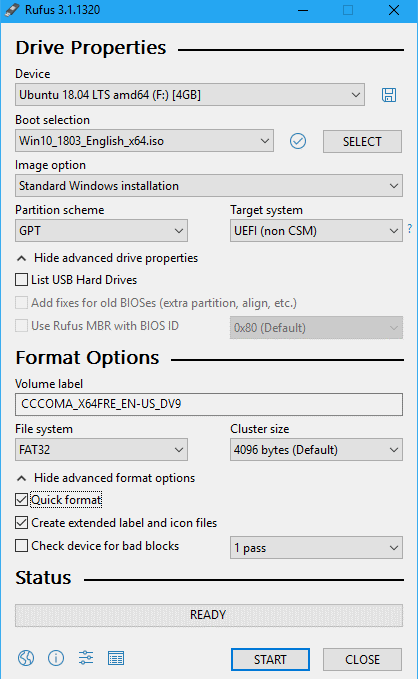
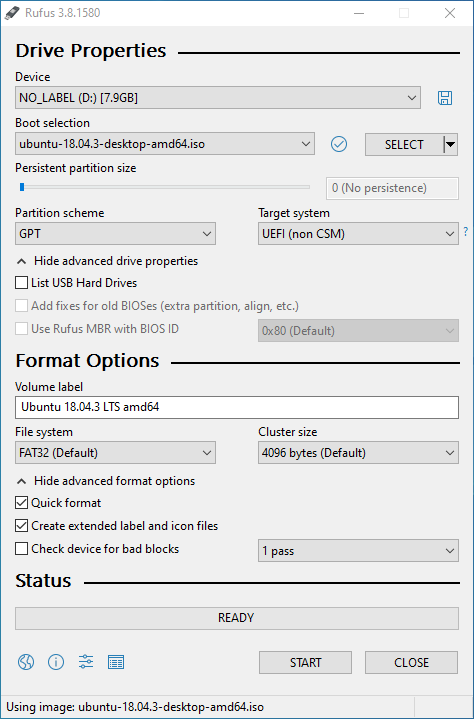
Further corrections for how to install ubuntu on external usb

Changed region(s): [[0.0, 0.0, 1.0, 1.0], [0.622, 0.1856, 0.9641, 0.2784], [0.8397, 0.1237, 0.9641, 0.1546]]

diff --git a/Install_portable_ubuntu_on_usb_drive/Install_portable_ubuntu_on_usb_drive_PL.md b/Install_portable_ubuntu_on_usb_drive/Install_portable_ubuntu_on_usb_drive_PL.md
@@ -15,15 +15,13 @@ author: Piotrek <pvanselow.2000@gmail.com>
 
 ## Wstęp
 
-W tym tutorialu poruszę kwestję instalacji Ubuntu (i pokrewnych dystrybucji Linuxa) na pamięci USB. Będzie to instalacja:
+W tym tutorialu poruszę kwestię instalacji Ubuntu (i pokrewnych dystrybucji Linuxa) w wersji UEFI, na pamięci USB z tablicą partycji GPT.
 
-* Ubuntu 18.04.3 LTS
-* W wersji UEFI
-* Na dysku z tablicą partycji GPT
+Ja użyję __Ubuntu 18.04.3 LTS__
 
 ## Co jest potrzebne
 
-* Dysk USB / pendrive: 8 GB, najlepiej USB3.1 Gen1 lub wyższe
+* Dysk USB / pendrive: min. 8 GB, najlepiej USB3.1 Gen1 lub wyższe
 * Pendrive: min. 4 GB, który posłuży nam jako dysk instalacyjny
 * Komputer obsługujący UEFI
 
@@ -42,9 +40,9 @@ W tym tutorialu poruszę kwestję instalacji Ubuntu (i pokrewnych dystrybucji Li
 
 ![Rufus_screenshot](IMG/01_RUFUS-Windows-10-Settings.png)
 
-* Teraz kliknij __START__ i w oknie dialogowym zezwól na pobranie dodatkowych plików.
+* Następnie kliknij __START__ i w oknie dialogowym zezwól na pobranie dodatkowych plików.
 
-## 2. Przygotowanie dysku USB do instalacji Linuxa
+## 2. Przygotowanie dysku USB na którym zainstalujemy Linuxa
 
 ### Uruchom ponownie komputer, wejdź w boot menagera i kliknij (UEFI):nazwa_dysku
 
@@ -55,7 +53,7 @@ W tym tutorialu poruszę kwestję instalacji Ubuntu (i pokrewnych dystrybucji Li
 
 ### Formatowanie i usuwanie partycji z dysk USB
 
-* Aby to zrobić musimy uruchomić program __GParted__. Można to zrobić z terminala albo graficznie.
+* Aby to zrobić musimy uruchomić program __GParted__. Można to zrobić z terminala jak i graficznie.
   * Otwórz terminal: <kbd>Ctrl</kbd> + <kbd>Alt</kbd> + <kbd>T</kbd>  
   * I w terminalu wpisz:  
 
@@ -63,8 +61,7 @@ W tym tutorialu poruszę kwestję instalacji Ubuntu (i pokrewnych dystrybucji Li
     sudo gparted
     ```
 
-* W programie __GParted__ znajdź dysk USB  __/dev/sdX__  przeznaczony do instalacji linuksa.  
-* Od teraz będę go nazywać __/dev/sdX__
+* W programie __GParted__ znajdź swój dysk USB przeznaczony do instalacji linuksa. (Na potrzeby tego tutorialu oznaczmy go jako __/dev/sdX__)
 * Sformatuj wszystkie partycje (może pojawić się potrzeba odmontowania ich):
   * dla zamontowanych partycji dysku: *PPM > Unmount*
   * dla wszystkich partycji dysku: *PPM > Format to > cleared*
@@ -105,7 +102,7 @@ Y
 ubiquity -b
 ```
 
-Zaznacz interesujące Cię opcje instalacji dodatkowego software'u. Kiedy instalator poprosi Cię o wybranie rodzaju instalacji wybierz ostatnią opcję: __Użycie innego rozwiązania__
+Zaznacz interesujące Cię opcje instalacji dodatkowego software'u. Kiedy instalator poprosi Cię o wybranie rodzaju instalacji zaznacz ostatnią opcję: __Użycie innego rozwiązania__
 
 ### Tworzenie partycji dla naszego Linuxa
 
@@ -126,27 +123,27 @@ Znajdź na liście swój dysk USB na którym bedziesz instalować Ubuntu. Nastę
     * Rozmiar
         * W przypadku gdy komputer na którym będziemy używać systemu ma mniej niż 1GB RAMu Partycja ta powinna mieć pojemność dwa razy większą niż ilość RAMu w tym komputerze.
         * Jeżeli nie dotyczy nas ten skrajny przypadek to jej rozmiar powinien być nie mniejszy niż największa konfiguracja RAM na jakiej mamy zamiar kożystać z tego systemu.
-    * Rodzaj partycji: SWAP
+    * Rodzaj partycji: __SWAP__
 
 4. Inne partycje
-    * Możemy zrobić partycje, która będzie widziana przez Windows w takim przypadku wybieramy system plików: __FAT32__ a za punkt montowania dowolny, w którym chcemy aby nasz dysk się pojawiał. Na przykład:
+    * Możemy zrobić partycję, która będzie widoczna dla Windows. W takim przypadku wybieramy system plików: __FAT32__ a punkt montowania dowolny. Na przykład:
         > `/home/MyDisk`
 
     * Można też zrobić osobną partycję dla danych użytkowników naszego systemu, wtedy system plików powinien być ten sam co na partycji z Linuxem a punkt montowania:
         > `/home`
 
-Ponieważ instalacja bootloadera jest wyłączona to na razie nie musimy się o to martwić.
+Ponieważ instalacja bootloadera jest wyłączona, na razie nie musimy się o to martwić.
 Ja wybrałem, że poza podstawowymi trzema partycjami stworzę partycję z której będę mógł kożystać tak jak z pendriva. Moja konfiguracja wygląda więc tak:
 
 ![partitions](IMG/05_new_partitions.png)
 
-### Naciśnij __Zainstaluj__ i poczekaj na zakończenie instalacji, a astępnie wyłącz komputer
+### Naciśnij __Zainstaluj__ i poczekaj na zakończenie instalacji, a następnie wyłącz komputer
 
 ## 4. Ręczna instalacja bootloadera (GRUB)
 
-Dysk nie jest bootowalny z UEFI jeżeli nie posiada bootloadera zainstalowanego na partycji EFI. Z tego powodu nie możemy jeszcze uruchomić naszego nowego systemu. Niestety instalacji GRUBa nie da się wykonać z zewnętrznego systemu. Aby to obejść musimy zalogować się do nowego Linuksa z dysku instalacyjnego.
+Dysk nie jest bootowalny z UEFI jeżeli nie posiada bootloadera zainstalowanego na partycji EFI. Z tego powodu nie możemy jeszcze uruchomić naszego nowego systemu. Niestety instalacji GRUBa nie da się wykonać z zewnątrz. Więc, aby to obejść musimy zalogować się do nowego Linuksa z dysku instalacyjnego.
 
-### Uruchom ponownie dysk instalacyjny w trybie UEFI i włącz "Try Ubuntu without installing" i upewnij się że masz dostęp do internetu
+### Uruchom ponownie dysk instalacyjny w trybie UEFI, włącz "Try Ubuntu without installing" i upewnij się że masz dostęp do internetu
 
 ### Otwórz terminal przy pomocy skrótu <kbd>Ctrl</kbd> + <kbd>Alt</kbd> + <kbd>T</kbd>
 
@@ -156,20 +153,20 @@ Dysk nie jest bootowalny z UEFI jeżeli nie posiada bootloadera zainstalowanego 
     lsblk
     ```
 
-* Na wyświetlonej liście odnajdź nazwę dysku USB (Nazwa może się różnić tej używanej podczas instalacji). Ponownie na potrzeby tego poradnika oznaczmy go jako __/dev/sdX__ teraz w terminalu wpisz:
+* Na wyświetlonej liście odnajdź nazwę dysku USB (Nazwa może się różnić tej używanej podczas instalacji). Ponownie na potrzeby tego poradnika oznaczmy go jako __/dev/sdX__. Teraz w terminalu wpisz:
 
     ```
     sudo gparted /dev/sdX
     ```
 
 * W programie gparted odnajdź partycje z Linuxem kliknij na nią dwa razy i zapisz sobie:
-  * oznacznenie partycji __/dev/sdXY__ - od teraz tak będzie ona przeze mnie nazywana
+  * Nazwę partycji. *(Nazwijmy ją __/dev/sdXY__)*
   * UUID, np. ***01234567-89ab-cdef-0123-4567890abcde***
 
 ![uuid_linux_part](IMG/06_uuid_linux_part.png)
 
 * To samo zrób z partycją EFI
-  * oznacznenie partycji __/dev/sdXZ__ - od teraz tak będzie ona przeze mnie nazywana
+  * Nazwę partycji. *(Nazwijmy ją __/dev/sdXZ__)*
   * UUID, np. ***0123-ABCD***
   
 * Zamknij GParted
@@ -181,27 +178,27 @@ sudo umount /media/ubuntu/01234567-89ab-cdef-0123-4567890abcde
 sudo mount /dev/sdXY /mnt
 ```
 
-### Ustawmy nowo zainstalowany system tak aby widział nowy bootloader
+### Ustawmy nowo zainstalowany system tak aby widział bootloader
 
 ```
 sudo nano /mnt/etc/fstab
 ```
 
-* Zakomentuj linię zawierającą "/boot/efi" stawiając przed nią znak __#__, a pod nią dodaj nową linię:
+* Zakomentuj linię zawierającą "/boot/efi" stawiając przed nią znak __#__. Pod nią zaś dodaj nową linię:
 
 ```
 UUID=0123-ABCD /boot/efi vfat defaults 0 1
 ```
 
-* Zapisz wciskając <kbd>Ctrl</kbd> + <kbd>x</kbd> następnie <kbd>Y</kbd> i na końcu <kbd>Enter</kbd>
+* Zapisz zmiany używając kombinacji klawiszy <kbd>Ctrl</kbd> + <kbd>x</kbd> następnie <kbd>Y</kbd> i na końcu <kbd>Enter</kbd>
 
 ![fstab_edit](IMG/07_fstab_edit.png)
 
-### Przygotowanie środowiska dla `chroot`
+### Przygotowanie środowiska dla __`chroot`__
 
 __`chroot`__ - to uniksowe polecenie uruchamiające program ze zmienionym katalogiem głównym (root).
 
-Aby z niego skorzystać musimy stworzyć specjalne drzewo katalogów, z zamontowanym ESP i kilkoma dodatkowymi katalogami. Skopiujemy także plik konfiguracyjny *`resolv.conf`*, który da chrootowi dostęp do internetu. Co ważne bootlooader musi być zainstalowany z opcją --removable w trybie ‘Fallback path’ dzięki czemu EFI zawsze będzie w stanie go zauwarzyć.
+Aby z niego skorzystać musimy stworzyć specjalne drzewo katalogów, z zamontowanym ESP i kilkoma dodatkowymi katalogami. Skopiujemy także plik konfiguracyjny *`resolv.conf`*, który da chrootowi dostęp do internetu. Co ważne bootlooader musi być zainstalowany z opcją --removable w trybie ‘Fallback path’ dzięki czemu EFI zawsze będzie w stanie go zauważyć.
 
 ### W terminalu wpisujemy
 
@@ -229,4 +226,11 @@ sudo update-grub
 
 ## Restartujemy komputer i gotowe :-)
 
-
+>__Sources:__  
+https://www.dionysopoulos.me/portable-ubuntu-on-usb-hdd/  
+http://ubuntuhandbook.org/index.php/2014/11/install-real-ubuntu-os-usb-drive/  
+https://wiki.gentoo.org/wiki/GRUB2/Troubleshooting  
+https://superuser.com/questions/1250895/converting-between-gpt-and-mbr-hard-drive-without-losing-data  
+https://askubuntu.com/questions/740253/how-to-install-grub-in-an-external-hard-drive  
+http://woshub.com/how-to-repair-deleted-efi-partition-in-windows-7/  
+https://www.ubackup.com/windows-10/restore-efi-partition-windows-10-8523.html  
